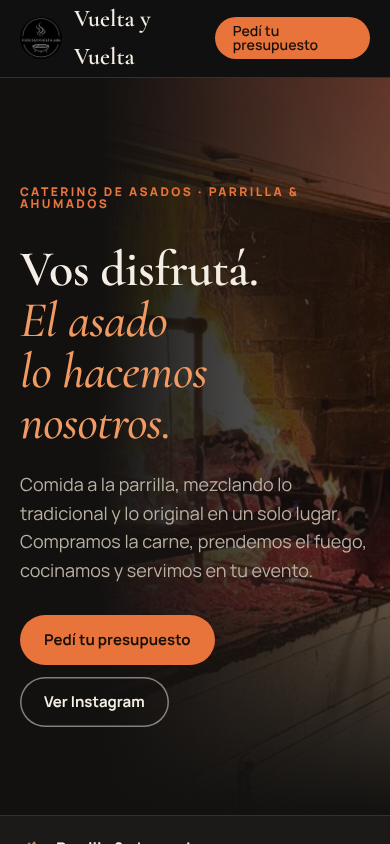
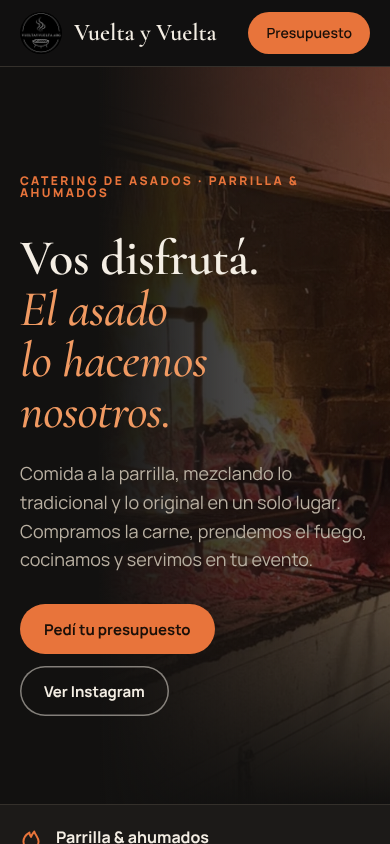
Vuelta y Vuelta: Pedro Bensadón y precio de $30.000 por persona; guía para armar propuestas
Claude-Session: https://claude.ai/code/session_01L537oFq8n5PF31QkLwVND7

diff --git a/vueltayvuelta/propuesta/slides.html b/vueltayvuelta/propuesta/slides.html
@@ -130,7 +130,7 @@ h2 { font-size: 84px; }
 <section class="slide dark" id="s1">
   <div class="photo" style="background-image:url(../assets/fuego.jpg);left:auto;width:58%;opacity:.95"></div>
   <div class="photo" style="background:linear-gradient(90deg,#171513 42%,rgba(23,21,19,.65) 62%,rgba(23,21,19,.1) 100%)"></div>
-  <div class="meta" style="position:relative"><span class="brand"><img src="../assets/logo-180.png" alt="" style="border-radius:50%">Propuesta para Vuelta y Vuelta</span><span class="n">01 / 16</span></div>
+  <div class="meta" style="position:relative"><span class="brand"><img src="../assets/logo-180.png" alt="" style="border-radius:50%">Propuesta para Pedro · Vuelta y Vuelta</span><span class="n">01 / 16</span></div>
   <div style="position:relative;display:flex;flex-direction:column;gap:24px;margin-top:70px;max-width:640px">
     <h1 style="font-size:138px;color:var(--cream);line-height:.95">La app de<br>Vuelta y Vuelta.</h1>
     <p class="hand" style="font-size:46px;color:var(--wheat);margin:0;line-height:1.1">presupuestos · eventos<br>compras · cobros</p>
@@ -243,14 +243,14 @@ h2 { font-size: 84px; }
       <div class="ln"><span>Traslado (32 km)</span><b>$15.000</b></div>
       <div class="ln tot"><span>Costo total</span><b>$482.000</b></div>
       <div style="margin-top:10px;background:var(--sunk);border-radius:16px;padding:16px 18px;display:grid;gap:4px">
-        <div class="row"><span style="font-size:20px;font-weight:700">Precio por persona</span><b class="num" style="font-size:26px">$21.000</b></div>
-        <div class="row"><span style="font-size:20px;font-weight:700">Precio al cliente</span><b class="num" style="font-size:26px">$840.000</b></div>
+        <div class="row"><span style="font-size:20px;font-weight:700">Precio por persona</span><b class="num" style="font-size:26px">$30.000</b></div>
+        <div class="row"><span style="font-size:20px;font-weight:700">Precio al cliente</span><b class="num" style="font-size:26px">$1.200.000</b></div>
       </div>
     </div>
     <div style="display:flex;flex-direction:column;gap:16px">
-      <div class="kpi ok" style="padding:22px"><small>Te queda</small><b style="font-size:52px">$358.000</b></div>
-      <div class="kpi ok" style="padding:22px"><small>Margen</small><b style="font-size:52px">43%</b></div>
-      <div class="kpi" style="padding:20px;background:var(--honey-bg);border:0"><small style="color:var(--honey)">Aviso</small><p style="margin:6px 0 0;font-size:20px;line-height:1.35;font-weight:600">Si la carne sube 8%, el margen baja a 40%. Sugerencia: <b>$22.000 por persona</b>.</p></div>
+      <div class="kpi ok" style="padding:22px"><small>Te queda</small><b style="font-size:52px">$718.000</b></div>
+      <div class="kpi ok" style="padding:22px"><small>Margen</small><b style="font-size:52px">60%</b></div>
+      <div class="kpi" style="padding:20px;background:var(--honey-bg);border:0"><small style="color:var(--honey)">Aviso</small><p style="margin:6px 0 0;font-size:20px;line-height:1.35;font-weight:600">Si la carne sube 8%, el margen baja a <span style="font-weight:800">58%</span>. La app te avisa antes de mandar el presupuesto.</p></div>
     </div>
   </div>
   <p class="foot" style="font-size:20px">Precios de ejemplo.</p>
@@ -272,8 +272,8 @@ h2 { font-size: 84px; }
       <div style="font-size:17px;line-height:1.55"><span class="lbl" style="font-size:12px">Menú</span><br>Recepción con provoleta, chorizo y morcilla. Vacío, bondiola, entraña y matambre. Verduras al rescoldo, pan y salsas.</div>
       <div style="font-size:17px;line-height:1.55"><span class="lbl" style="font-size:12px">Incluye</span><br>Compra de la carne, parrilleros, carbón y leña, armado y limpieza de la parrilla.</div>
       <div style="background:#171513;color:#F4EEE4;border-radius:8px;padding:16px 18px;display:grid;gap:6px">
-        <div class="row" style="font-size:18px"><span>Total (40 × $21.000)</span><b class="num" style="font-size:24px">$840.000</b></div>
-        <div class="row" style="font-size:16px;color:#BFB6A8"><span>Seña para reservar la fecha (30%)</span><b class="num">$252.000</b></div>
+        <div class="row" style="font-size:18px"><span>Total (40 × $30.000)</span><b class="num" style="font-size:24px">$1.200.000</b></div>
+        <div class="row" style="font-size:16px;color:#BFB6A8"><span>Seña para reservar la fecha (30%)</span><b class="num">$360.000</b></div>
       </div>
       <span style="font-size:13px;color:var(--muted)">Válido por 7 días. Precio sujeto al valor de la carne.</span>
     </div>
@@ -320,7 +320,7 @@ h2 { font-size: 84px; }
       <div class="win" style="padding:18px 20px;display:grid;gap:8px">
         <div class="row"><b style="font-size:24px">Cumple 50 · Martín</b><span class="pill honey" style="font-size:15px">Sáb 7/11 · 13 h</span></div>
         <div style="font-size:17px;color:var(--muted);font-weight:600">Nordelta · 40 personas · Menú clásico</div>
-        <div class="row" style="font-size:18px;font-weight:700"><span>Seña <span class="pill ok" style="font-size:13px">Cobrada</span></span><span class="num">Saldo $588.000</span></div>
+        <div class="row" style="font-size:18px;font-weight:700"><span>Seña <span class="pill ok" style="font-size:13px">Cobrada</span></span><span class="num">Saldo $840.000</span></div>
         <div style="border-top:1px dashed var(--line);padding-top:8px;display:grid;grid-template-columns:1fr 1fr;gap:4px 12px;font-size:16px;font-weight:600">
           <span>☑ Comprar carne</span><span>☑ Confirmar ayudantes</span><span>☐ Parrilla portátil</span><span>☐ Recordatorio</span>
         </div>
@@ -380,20 +380,20 @@ h2 { font-size: 84px; }
     <div class="bar"><i></i><i></i><i></i><div class="url"><b>app.vueltayvuelta.ar</b>/cobros</div></div>
     <div style="padding:22px 24px;display:flex;flex-direction:column;gap:16px">
       <div class="kpis" style="grid-template-columns:repeat(3,1fr)">
-        <div class="kpi ok"><small>Cobrado en octubre</small><b>$2.310.000</b></div>
-        <div class="kpi"><small>Señas por cobrar</small><b>$486.000</b></div>
-        <div class="kpi bad"><small>Saldos vencidos</small><b>$190.000</b></div>
+        <div class="kpi ok"><small>Cobrado en octubre</small><b>$3.420.000</b></div>
+        <div class="kpi"><small>Señas por cobrar</small><b>$585.000</b></div>
+        <div class="kpi bad"><small>Saldos vencidos</small><b>$270.000</b></div>
       </div>
       <div>
-        <div class="evr"><div><b>Cumple · Sofía</b><small>Sáb 21/11 · presupuesto enviado hace 3 días</small></div><span class="pill honey">Falta seña</span><span class="wa-btn">Recordar</span></div>
+        <div class="evr"><div><b>Cumple · Sofía</b><small>Sáb 21/11 · 25 personas · presupuesto enviado hace 3 días</small></div><span class="pill honey">Falta seña</span><span class="wa-btn">Recordar</span></div>
         <div class="evr"><div><b>Casamiento · Lucía y Tomás</b><small>Sáb 14/11 · seña $720.000 cobrada</small></div><span class="pill ok">Seña ✓</span><span class="m num">$1.680.000</span></div>
-        <div class="evr"><div><b>Empresa · Grupo Delta</b><small>Vie 13/11 · factura enviada</small></div><span class="pill ok">Seña ✓</span><span class="m num">$1.050.000</span></div>
+        <div class="evr"><div><b>Empresa · Grupo Delta</b><small>Vie 13/11 · factura enviada</small></div><span class="pill ok">Seña ✓</span><span class="m num">$1.260.000</span></div>
         <div class="evr"><div><b>Asado de egresados · San Juan</b><small>Fue el 03/10 · saldo vencido</small></div><span class="pill bad">Debe</span><span class="wa-btn">Recordar</span></div>
       </div>
     </div>
   </div>
   <div style="position:absolute;right:56px;bottom:60px;width:470px;background:#EFE7DA;border-radius:26px;padding:18px;box-shadow:0 30px 60px -30px rgba(0,0,0,.8);transform:rotate(2deg)">
-    <div class="bub me" style="max-width:100%;font-size:20px">Hola Sofi! ¿Cómo va? Para reservar el sábado 21 te pido la seña del 30%: <b>$165.000</b>. Te dejo el presupuesto en PDF 🔥 <time>10:30 ✓✓</time></div>
+    <div class="bub me" style="max-width:100%;font-size:20px">Hola Sofi! ¿Cómo va? Para reservar el sábado 21 te pido la seña del 30%: <b>$225.000</b>. Te dejo el presupuesto en PDF 🔥 <time>10:30 ✓✓</time></div>
   </div>
 </section>
 
@@ -454,7 +454,7 @@ h2 { font-size: 84px; }
     <div style="padding:18px 22px 20px;display:flex;flex-direction:column;gap:16px">
       <div class="kpis" style="grid-template-columns:repeat(4,1fr)">
         <div class="kpi"><small>Eventos 2026</small><b>38</b></div>
-        <div class="kpi"><small>Por persona</small><b>$20.400</b></div>
+        <div class="kpi"><small>Por persona</small><b>$29.200</b></div>
         <div class="kpi ok"><small>Margen prom.</small><b>41%</b></div>
         <div class="kpi"><small>Consultas → evento</small><b>41%</b></div>
       </div>
@@ -547,7 +547,7 @@ h2 { font-size: 84px; }
           <div class="bub me">Hola! quiero un asado para 40 el domingo 29/11 <time>22:38</time></div>
           <div class="bub">¡Hola! 🔥 El domingo 29 está <b>libre</b>. ¿Cuántos son chicos y en qué zona es?<time>22:38</time></div>
           <div class="bub me">8 chicos, en Tigre <time>22:39</time></div>
-          <div class="bub">Con el menú clásico sale <b>$21.000 por persona</b>: $840.000. Te paso el presupuesto en PDF 📄<time>22:39</time></div>
+          <div class="bub">Con el menú clásico sale <b>$30.000 por persona</b>: $1.200.000. Te paso el presupuesto en PDF 📄<time>22:39</time></div>
           <div class="bub">Para reservar la fecha, la seña es del 30%. ¿Te paso los datos?<time>22:40</time></div>
           <div class="bub me">Dale! <time>22:41</time></div>
         </div>
@@ -574,7 +574,7 @@ h2 { font-size: 84px; }
     <div style="display:flex;flex-direction:column;gap:28px">
       <ul class="ticks">
         <li><span>Para el <b>link de la bio</b>: en vez de una lista de botones, una página propia.</span></li>
-        <li><span><b>Quién cocina</b>, cómo trabajan y fotos de eventos reales.</span></li>
+        <li><span><b>Pedro en la parrilla</b>, cómo trabajan y fotos de eventos reales.</span></li>
         <li><span>Un formulario que arma la <b>consulta por WhatsApp</b> con fecha, invitados y zona.</span></li>
       </ul>
       <div>
@@ -633,7 +633,7 @@ h2 { font-size: 84px; }
   <div style="margin-top:auto;display:flex;align-items:flex-end;justify-content:space-between;gap:30px">
     <div>
       <p class="hand" style="font-size:72px;color:var(--wheat);margin:0;line-height:1">¿Lo probamos un mes?</p>
-      <p style="font-size:24px;color:var(--cream-2);margin:10px 0 0;max-width:24em">Con los eventos reales de Vuelta y Vuelta, y si no suma, no sigue.</p>
+      <p style="font-size:24px;color:var(--cream-2);margin:10px 0 0;max-width:24em">Con los eventos reales de Vuelta y Vuelta, Pedro, y si no suma, no sigue.</p>
     </div>
     <img src="../assets/logo.png" alt="" style="width:170px;height:170px;border-radius:50%">
   </div>

diff --git a/vueltayvuelta/propuesta/slides.part.html b/vueltayvuelta/propuesta/slides.part.html
@@ -28,7 +28,7 @@ h2 { font-size: 84px; }
 <section class="slide dark" id="s1">
   <div class="photo" style="background-image:url(../assets/fuego.jpg);left:auto;width:58%;opacity:.95"></div>
   <div class="photo" style="background:linear-gradient(90deg,#171513 42%,rgba(23,21,19,.65) 62%,rgba(23,21,19,.1) 100%)"></div>
-  <div class="meta" style="position:relative"><span class="brand"><img src="../assets/logo-180.png" alt="" style="border-radius:50%">Propuesta para Vuelta y Vuelta</span><span class="n">01 / 16</span></div>
+  <div class="meta" style="position:relative"><span class="brand"><img src="../assets/logo-180.png" alt="" style="border-radius:50%">Propuesta para Pedro · Vuelta y Vuelta</span><span class="n">01 / 16</span></div>
   <div style="position:relative;display:flex;flex-direction:column;gap:24px;margin-top:70px;max-width:640px">
     <h1 style="font-size:138px;color:var(--cream);line-height:.95">La app de<br>Vuelta y Vuelta.</h1>
     <p class="hand" style="font-size:46px;color:var(--wheat);margin:0;line-height:1.1">presupuestos · eventos<br>compras · cobros</p>
@@ -141,14 +141,14 @@ h2 { font-size: 84px; }
       <div class="ln"><span>Traslado (32 km)</span><b>$15.000</b></div>
       <div class="ln tot"><span>Costo total</span><b>$482.000</b></div>
       <div style="margin-top:10px;background:var(--sunk);border-radius:16px;padding:16px 18px;display:grid;gap:4px">
-        <div class="row"><span style="font-size:20px;font-weight:700">Precio por persona</span><b class="num" style="font-size:26px">$21.000</b></div>
-        <div class="row"><span style="font-size:20px;font-weight:700">Precio al cliente</span><b class="num" style="font-size:26px">$840.000</b></div>
+        <div class="row"><span style="font-size:20px;font-weight:700">Precio por persona</span><b class="num" style="font-size:26px">$30.000</b></div>
+        <div class="row"><span style="font-size:20px;font-weight:700">Precio al cliente</span><b class="num" style="font-size:26px">$1.200.000</b></div>
       </div>
     </div>
     <div style="display:flex;flex-direction:column;gap:16px">
-      <div class="kpi ok" style="padding:22px"><small>Te queda</small><b style="font-size:52px">$358.000</b></div>
-      <div class="kpi ok" style="padding:22px"><small>Margen</small><b style="font-size:52px">43%</b></div>
-      <div class="kpi" style="padding:20px;background:var(--honey-bg);border:0"><small style="color:var(--honey)">Aviso</small><p style="margin:6px 0 0;font-size:20px;line-height:1.35;font-weight:600">Si la carne sube 8%, el margen baja a 40%. Sugerencia: <b>$22.000 por persona</b>.</p></div>
+      <div class="kpi ok" style="padding:22px"><small>Te queda</small><b style="font-size:52px">$718.000</b></div>
+      <div class="kpi ok" style="padding:22px"><small>Margen</small><b style="font-size:52px">60%</b></div>
+      <div class="kpi" style="padding:20px;background:var(--honey-bg);border:0"><small style="color:var(--honey)">Aviso</small><p style="margin:6px 0 0;font-size:20px;line-height:1.35;font-weight:600">Si la carne sube 8%, el margen baja a <span style="font-weight:800">58%</span>. La app te avisa antes de mandar el presupuesto.</p></div>
     </div>
   </div>
   <p class="foot" style="font-size:20px">Precios de ejemplo.</p>
@@ -170,8 +170,8 @@ h2 { font-size: 84px; }
       <div style="font-size:17px;line-height:1.55"><span class="lbl" style="font-size:12px">Menú</span><br>Recepción con provoleta, chorizo y morcilla. Vacío, bondiola, entraña y matambre. Verduras al rescoldo, pan y salsas.</div>
       <div style="font-size:17px;line-height:1.55"><span class="lbl" style="font-size:12px">Incluye</span><br>Compra de la carne, parrilleros, carbón y leña, armado y limpieza de la parrilla.</div>
       <div style="background:#171513;color:#F4EEE4;border-radius:8px;padding:16px 18px;display:grid;gap:6px">
-        <div class="row" style="font-size:18px"><span>Total (40 × $21.000)</span><b class="num" style="font-size:24px">$840.000</b></div>
-        <div class="row" style="font-size:16px;color:#BFB6A8"><span>Seña para reservar la fecha (30%)</span><b class="num">$252.000</b></div>
+        <div class="row" style="font-size:18px"><span>Total (40 × $30.000)</span><b class="num" style="font-size:24px">$1.200.000</b></div>
+        <div class="row" style="font-size:16px;color:#BFB6A8"><span>Seña para reservar la fecha (30%)</span><b class="num">$360.000</b></div>
       </div>
       <span style="font-size:13px;color:var(--muted)">Válido por 7 días. Precio sujeto al valor de la carne.</span>
     </div>
@@ -218,7 +218,7 @@ h2 { font-size: 84px; }
       <div class="win" style="padding:18px 20px;display:grid;gap:8px">
         <div class="row"><b style="font-size:24px">Cumple 50 · Martín</b><span class="pill honey" style="font-size:15px">Sáb 7/11 · 13 h</span></div>
         <div style="font-size:17px;color:var(--muted);font-weight:600">Nordelta · 40 personas · Menú clásico</div>
-        <div class="row" style="font-size:18px;font-weight:700"><span>Seña <span class="pill ok" style="font-size:13px">Cobrada</span></span><span class="num">Saldo $588.000</span></div>
+        <div class="row" style="font-size:18px;font-weight:700"><span>Seña <span class="pill ok" style="font-size:13px">Cobrada</span></span><span class="num">Saldo $840.000</span></div>
         <div style="border-top:1px dashed var(--line);padding-top:8px;display:grid;grid-template-columns:1fr 1fr;gap:4px 12px;font-size:16px;font-weight:600">
           <span>☑ Comprar carne</span><span>☑ Confirmar ayudantes</span><span>☐ Parrilla portátil</span><span>☐ Recordatorio</span>
         </div>
@@ -278,20 +278,20 @@ h2 { font-size: 84px; }
     <div class="bar"><i></i><i></i><i></i><div class="url"><b>app.vueltayvuelta.ar</b>/cobros</div></div>
     <div style="padding:22px 24px;display:flex;flex-direction:column;gap:16px">
       <div class="kpis" style="grid-template-columns:repeat(3,1fr)">
-        <div class="kpi ok"><small>Cobrado en octubre</small><b>$2.310.000</b></div>
-        <div class="kpi"><small>Señas por cobrar</small><b>$486.000</b></div>
-        <div class="kpi bad"><small>Saldos vencidos</small><b>$190.000</b></div>
+        <div class="kpi ok"><small>Cobrado en octubre</small><b>$3.420.000</b></div>
+        <div class="kpi"><small>Señas por cobrar</small><b>$585.000</b></div>
+        <div class="kpi bad"><small>Saldos vencidos</small><b>$270.000</b></div>
       </div>
       <div>
-        <div class="evr"><div><b>Cumple · Sofía</b><small>Sáb 21/11 · presupuesto enviado hace 3 días</small></div><span class="pill honey">Falta seña</span><span class="wa-btn">Recordar</span></div>
+        <div class="evr"><div><b>Cumple · Sofía</b><small>Sáb 21/11 · 25 personas · presupuesto enviado hace 3 días</small></div><span class="pill honey">Falta seña</span><span class="wa-btn">Recordar</span></div>
         <div class="evr"><div><b>Casamiento · Lucía y Tomás</b><small>Sáb 14/11 · seña $720.000 cobrada</small></div><span class="pill ok">Seña ✓</span><span class="m num">$1.680.000</span></div>
-        <div class="evr"><div><b>Empresa · Grupo Delta</b><small>Vie 13/11 · factura enviada</small></div><span class="pill ok">Seña ✓</span><span class="m num">$1.050.000</span></div>
+        <div class="evr"><div><b>Empresa · Grupo Delta</b><small>Vie 13/11 · factura enviada</small></div><span class="pill ok">Seña ✓</span><span class="m num">$1.260.000</span></div>
         <div class="evr"><div><b>Asado de egresados · San Juan</b><small>Fue el 03/10 · saldo vencido</small></div><span class="pill bad">Debe</span><span class="wa-btn">Recordar</span></div>
       </div>
     </div>
   </div>
   <div style="position:absolute;right:56px;bottom:60px;width:470px;background:#EFE7DA;border-radius:26px;padding:18px;box-shadow:0 30px 60px -30px rgba(0,0,0,.8);transform:rotate(2deg)">
-    <div class="bub me" style="max-width:100%;font-size:20px">Hola Sofi! ¿Cómo va? Para reservar el sábado 21 te pido la seña del 30%: <b>$165.000</b>. Te dejo el presupuesto en PDF 🔥 <time>10:30 ✓✓</time></div>
+    <div class="bub me" style="max-width:100%;font-size:20px">Hola Sofi! ¿Cómo va? Para reservar el sábado 21 te pido la seña del 30%: <b>$225.000</b>. Te dejo el presupuesto en PDF 🔥 <time>10:30 ✓✓</time></div>
   </div>
 </section>
 
@@ -352,7 +352,7 @@ h2 { font-size: 84px; }
     <div style="padding:18px 22px 20px;display:flex;flex-direction:column;gap:16px">
       <div class="kpis" style="grid-template-columns:repeat(4,1fr)">
         <div class="kpi"><small>Eventos 2026</small><b>38</b></div>
-        <div class="kpi"><small>Por persona</small><b>$20.400</b></div>
+        <div class="kpi"><small>Por persona</small><b>$29.200</b></div>
         <div class="kpi ok"><small>Margen prom.</small><b>41%</b></div>
         <div class="kpi"><small>Consultas → evento</small><b>41%</b></div>
       </div>
@@ -445,7 +445,7 @@ h2 { font-size: 84px; }
           <div class="bub me">Hola! quiero un asado para 40 el domingo 29/11 <time>22:38</time></div>
           <div class="bub">¡Hola! 🔥 El domingo 29 está <b>libre</b>. ¿Cuántos son chicos y en qué zona es?<time>22:38</time></div>
           <div class="bub me">8 chicos, en Tigre <time>22:39</time></div>
-          <div class="bub">Con el menú clásico sale <b>$21.000 por persona</b>: $840.000. Te paso el presupuesto en PDF 📄<time>22:39</time></div>
+          <div class="bub">Con el menú clásico sale <b>$30.000 por persona</b>: $1.200.000. Te paso el presupuesto en PDF 📄<time>22:39</time></div>
           <div class="bub">Para reservar la fecha, la seña es del 30%. ¿Te paso los datos?<time>22:40</time></div>
           <div class="bub me">Dale! <time>22:41</time></div>
         </div>
@@ -472,7 +472,7 @@ h2 { font-size: 84px; }
     <div style="display:flex;flex-direction:column;gap:28px">
       <ul class="ticks">
         <li><span>Para el <b>link de la bio</b>: en vez de una lista de botones, una página propia.</span></li>
-        <li><span><b>Quién cocina</b>, cómo trabajan y fotos de eventos reales.</span></li>
+        <li><span><b>Pedro en la parrilla</b>, cómo trabajan y fotos de eventos reales.</span></li>
         <li><span>Un formulario que arma la <b>consulta por WhatsApp</b> con fecha, invitados y zona.</span></li>
       </ul>
       <div>
@@ -531,7 +531,7 @@ h2 { font-size: 84px; }
   <div style="margin-top:auto;display:flex;align-items:flex-end;justify-content:space-between;gap:30px">
     <div>
       <p class="hand" style="font-size:72px;color:var(--wheat);margin:0;line-height:1">¿Lo probamos un mes?</p>
-      <p style="font-size:24px;color:var(--cream-2);margin:10px 0 0;max-width:24em">Con los eventos reales de Vuelta y Vuelta, y si no suma, no sigue.</p>
+      <p style="font-size:24px;color:var(--cream-2);margin:10px 0 0;max-width:24em">Con los eventos reales de Vuelta y Vuelta, Pedro, y si no suma, no sigue.</p>
     </div>
     <img src="../assets/logo.png" alt="" style="width:170px;height:170px;border-radius:50%">
   </div>

diff --git a/vueltayvuelta/landing/index.html b/vueltayvuelta/landing/index.html
@@ -146,9 +146,9 @@ footer a { color: var(--bone); font-weight: 700; text-decoration: none; }
     <a class="brand" href="#inicio"><img src="img/logo-180.png" alt="" width="42" height="42"><b>Vuelta y Vuelta</b></a>
     <nav class="nav" aria-label="Secciones">
       <a href="#servicio">Servicio</a>
-      <a href="#quien">Quién cocina</a>
+      <a href="#quien">Quién es Pedro</a>
       <a href="#eventos">Eventos</a>
-      <a class="btn btn-fire" href="#presupuesto">Pedí tu presupuesto</a>
+      <a class="btn btn-fire" href="#presupuesto">Presupuesto</a>
     </nav>
   </div>
 </header>
@@ -192,11 +192,11 @@ footer a { color: var(--bone); font-weight: 700; text-decoration: none; }
 
   <section class="block chef" id="quien">
     <div class="wrap">
-      <figure><img src="img/creador.jpg" alt="El parrillero de Vuelta y Vuelta junto a la parrilla"><figcaption>El que va a estar en tu parrilla</figcaption></figure>
+      <figure><img src="img/creador.jpg" alt="Pedro Bensadón junto a la parrilla"><figcaption>Pedro Bensadón · fundador y parrillero</figcaption></figure>
       <div class="txt">
-        <p class="eyebrow">Quién cocina</p>
+        <p class="eyebrow">Quién cocina · Pedro Bensadón</p>
         <blockquote>Acá estoy para lo que necesiten, cualquier evento que necesiten.</blockquote>
-        <p>Vuelta y Vuelta es un emprendimiento joven hecho alrededor del fuego. Cada evento lo cocina la misma persona que te atiende el WhatsApp: sabe qué pediste, cuántos son y cómo te gusta la carne.</p>
+        <p>Soy Pedro y armé Vuelta y Vuelta alrededor del fuego. Cada evento lo cocino yo, el mismo que te responde la consulta: sé qué pediste, cuántos son y cómo te gusta la carne.</p>
         <div class="mini"><img src="img/parrilla-chef.jpg" alt="Cocinando en la parrilla"><img src="img/duo.jpg" alt="El equipo de Vuelta y Vuelta"></div>
       </div>
     </div>

diff --git a/.claude/skills/propuesta-negocio/SKILL.md b/.claude/skills/propuesta-negocio/SKILL.md
@@ -1,0 +1,46 @@
+---
+name: propuesta-negocio
+description: Arma la propuesta visual de micro-app para un emprendimiento (carrusel de placas + visor publicado + landing opcional), con el método que usamos para Alby's, Vuelta y Vuelta y Cheese Brothers. Usar cuando Lucas pida "una propuesta", "un artefacto como el de Alby's", "mostrarle a un negocio lo que le puedo hacer" o pase el Instagram de un negocio nuevo.
+---
+
+# Propuesta visual para un negocio
+
+Lucas ofrece micro-apps a emprendimientos (pedidos, Excel, rutas, cobros, clientes, métricas, contenido, bot de WhatsApp). La propuesta es una **muestra visual**, no el desarrollo: tiene que hacer que el dueño entienda en 2 minutos qué le resolvería. Precisión justa: números de ejemplo que cierren entre sí, sin sobre-especificar.
+
+## 1. Entender el negocio
+- Instagram suele estar bloqueado desde la nube: trabajar con las capturas que manda Lucas (bio, destacados, posts, flyers, página de links). Sacar productos, precios, zonas, días de entrega, tono y colores.
+- Recortar logo y 4–8 fotos de las capturas a `<negocio>/assets/` (PIL). **Nunca** subir las capturas originales al repo (es público y muestran su escritorio).
+- Preguntar solo lo que cambia la propuesta (nombre del dueño, precio de referencia). Lo demás: suponer y marcar "de ejemplo".
+
+## 2. Elegir las placas (14–17, formato 1080×1350)
+Estructura que funciona:
+1. Portada con la marca y la promesa ("La app de X").
+2. Cómo es hoy: chat de WhatsApp caótico + 4 dolores concretos del rubro.
+3. Cómo se conecta (Sheets, WhatsApp, Maps, PDF, etc.).
+4. El Excel bien armado (mención a Don Bamón como caso real).
+5–11. Una placa por función, cada una con una pantalla mockup creíble. Elegir según el rubro:
+   - Reparto semanal (Alby's, Cheese Brothers): pedidos en vivo, producción / plan de corte, stock, rutas por repartidor, app del repartidor, cobros.
+   - Eventos (Vuelta y Vuelta): calculadora de insumos, presupuesto y margen, presupuesto PDF, calendario sincronizado, compras, señas y saldos, historial.
+12. Clientes (etiquetas fiel / nuevo / dormido + mensaje masivo).
+13. Métricas para decidir: rankings + 3 conclusiones con acción ("→ ...").
+14. Contenido: tablero de posts, mensajes guardados, kit de marca, Meta Ads.
+15. Bot de WhatsApp (siempre como etapa siguiente).
+16. Web / landing + chips de "más ideas".
+17. Plan por etapas + "¿Lo probamos un mes?".
+Sumar siempre 2–4 ideas propias específicas del rubro (ej.: cajas navideñas, merma de corte, aniversario de eventos).
+
+## 3. Construir
+- Base de componentes compartida: `tools/slides-base.css`. Cada negocio tiene `<negocio>/propuesta/{tokens.css, slides.part.html, title.txt, fonts.txt}`.
+- `python3 tools/build-slides.py <negocio>` arma `slides.html`.
+- Servidor estático en la raíz del repo y `node tools/render.mjs <negocio>` → `propuesta/png/NN.png` (`CHROMIUM=/opt/pw-browsers/chromium-1194/chrome-linux/chrome`, `BASE=http://localhost:PUERTO`).
+- Identidad de cada marca: colores del logo, una tipografía display que se parezca a la del logo, Manrope de cuerpo.
+- Revisar el render con una hoja de contacto y corregir lo que se corta o se pisa (etiquetas de mapa, columnas angostas).
+
+## 4. Publicar
+- Visor: copiar `<otro>/propuesta/visor.html` (2 placas por vista en compu, 1 en celu, hover que agranda, clic para ver en grande) y ajustar título, `N` y colores. Publicarlo como Artifact con `files` = las PNG.
+- Los artifacts quedan privados: recordarle a Lucas que los comparta desde "Compartir".
+- La landing del negocio **no** se publica como artifact (se presenta como el sitio del negocio): queda como archivo en `<negocio>/landing/` y se muestra dentro de una placa.
+- Commit y push a la rama de trabajo.
+
+## 5. Precio (privado, solo para Lucas)
+Modelo que le cierra a un emprendimiento: prueba gratis de 4 semanas, después cobro por pedido o abono semanal chico que sube por etapa; nunca más del ~5% de lo que vende el negocio; el bot al final. Ver el artifact "Precio para Alby's" como referencia.
